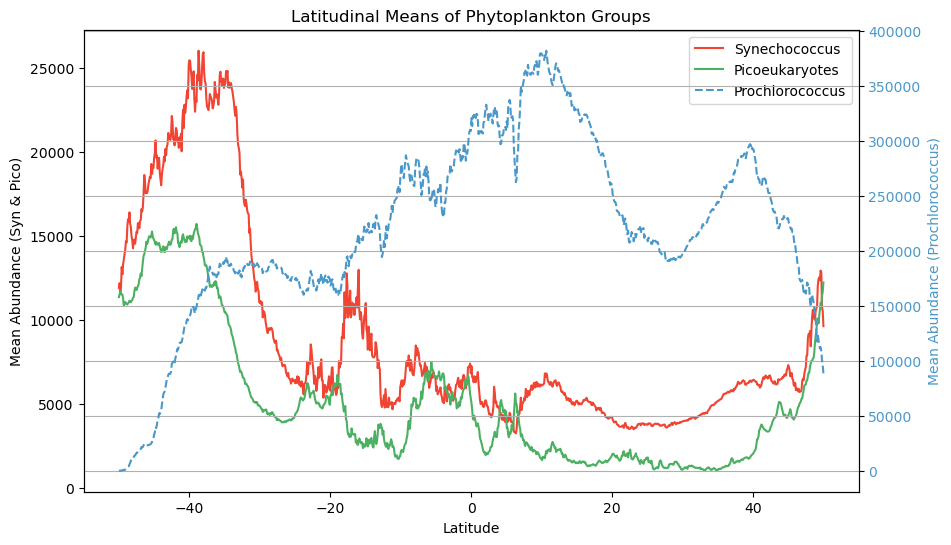
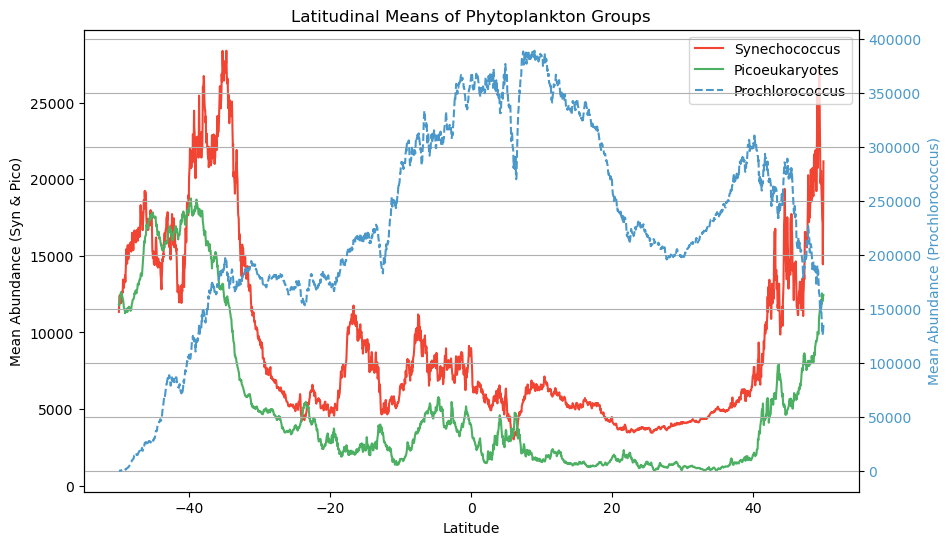
minor update

diff --git a/docs/tutorials/python/Tutorial_3_moana.html b/docs/tutorials/python/Tutorial_3_moana.html
@@ -429,7 +429,8 @@ function googleTranslateElementInit() {
 </section>
 <section id="lock-and-load-the-data" class="level2">
 <h2 class="anchored" data-anchor-id="lock-and-load-the-data">Lock and load the data</h2>
-<div id="d05417c1-06e7-47af-ae9a-28a2401e5a52" class="cell" data-execution_count="2">
+<p>We’re going to do something slightly different here, and pull from ERDDAP instead of NASA Earth Access.</p>
+<div id="d05417c1-06e7-47af-ae9a-28a2401e5a52" class="cell" data-execution_count="12">
 <div class="sourceCode cell-code" id="cb1"><pre class="sourceCode python code-with-copy"><code class="sourceCode python"><span id="cb1-1"><a href="#cb1-1" aria-hidden="true" tabindex="-1"></a><span class="co"># ---- Load Libraries ----</span></span>
 <span id="cb1-2"><a href="#cb1-2" aria-hidden="true" tabindex="-1"></a><span class="im">import</span> numpy <span class="im">as</span> np</span>
 <span id="cb1-3"><a href="#cb1-3" aria-hidden="true" tabindex="-1"></a><span class="im">import</span> matplotlib.pyplot <span class="im">as</span> plt</span>
@@ -439,21 +440,34 @@ function googleTranslateElementInit() {
 <span id="cb1-7"><a href="#cb1-7" aria-hidden="true" tabindex="-1"></a><span class="im">import</span> cartopy.feature <span class="im">as</span> cfeature</span>
 <span id="cb1-8"><a href="#cb1-8" aria-hidden="true" tabindex="-1"></a></span>
 <span id="cb1-9"><a href="#cb1-9" aria-hidden="true" tabindex="-1"></a><span class="co"># ---- Load Data ----</span></span>
-<span id="cb1-10"><a href="#cb1-10" aria-hidden="true" tabindex="-1"></a>filename <span class="op">=</span> <span class="st">'PACE_OCI.20240901_20240930.L3m.MO.MOANA.V3_0.0p1deg.nc'</span></span>
-<span id="cb1-11"><a href="#cb1-11" aria-hidden="true" tabindex="-1"></a>dataset <span class="op">=</span> xr.open_dataset(filename)</span>
-<span id="cb1-12"><a href="#cb1-12" aria-hidden="true" tabindex="-1"></a></span>
-<span id="cb1-13"><a href="#cb1-13" aria-hidden="true" tabindex="-1"></a><span class="co"># Assign core variables</span></span>
-<span id="cb1-14"><a href="#cb1-14" aria-hidden="true" tabindex="-1"></a>latitude <span class="op">=</span> dataset[<span class="st">"lat"</span>]</span>
-<span id="cb1-15"><a href="#cb1-15" aria-hidden="true" tabindex="-1"></a>longitude <span class="op">=</span> dataset[<span class="st">"lon"</span>]</span>
-<span id="cb1-16"><a href="#cb1-16" aria-hidden="true" tabindex="-1"></a>syn_da <span class="op">=</span> dataset[<span class="st">"syncoccus_moana"</span>]</span>
-<span id="cb1-17"><a href="#cb1-17" aria-hidden="true" tabindex="-1"></a>pico_da <span class="op">=</span> dataset[<span class="st">"picoeuk_moana"</span>]</span>
-<span id="cb1-18"><a href="#cb1-18" aria-hidden="true" tabindex="-1"></a>pro_da <span class="op">=</span> dataset[<span class="st">"prococcus_moana"</span>]</span></code><button title="Copy to Clipboard" class="code-copy-button"><i class="bi"></i></button></pre></div>
+<span id="cb1-10"><a href="#cb1-10" aria-hidden="true" tabindex="-1"></a>url <span class="op">=</span> <span class="st">"https://cwcgom.aoml.noaa.gov/erddap/griddap/noaa_aoml_a113_ab04_933f"</span></span>
+<span id="cb1-11"><a href="#cb1-11" aria-hidden="true" tabindex="-1"></a>dataset <span class="op">=</span> xr.open_dataset(url)</span>
+<span id="cb1-12"><a href="#cb1-12" aria-hidden="true" tabindex="-1"></a>dataset <span class="op">=</span> dataset.sel(time<span class="op">=</span><span class="st">"2024-09-25T00:00:00.000000000"</span>)</span>
+<span id="cb1-13"><a href="#cb1-13" aria-hidden="true" tabindex="-1"></a></span>
+<span id="cb1-14"><a href="#cb1-14" aria-hidden="true" tabindex="-1"></a><span class="co"># Assign core variables</span></span>
+<span id="cb1-15"><a href="#cb1-15" aria-hidden="true" tabindex="-1"></a>latitude <span class="op">=</span> dataset[<span class="st">"latitude"</span>]</span>
+<span id="cb1-16"><a href="#cb1-16" aria-hidden="true" tabindex="-1"></a>longitude <span class="op">=</span> dataset[<span class="st">"longitude"</span>]</span>
+<span id="cb1-17"><a href="#cb1-17" aria-hidden="true" tabindex="-1"></a>syn_da <span class="op">=</span> dataset[<span class="st">"syncoccus_moana"</span>]</span>
+<span id="cb1-18"><a href="#cb1-18" aria-hidden="true" tabindex="-1"></a>pico_da <span class="op">=</span> dataset[<span class="st">"picoeuk_moana"</span>]</span>
+<span id="cb1-19"><a href="#cb1-19" aria-hidden="true" tabindex="-1"></a>pro_da <span class="op">=</span> dataset[<span class="st">"prococcus_moana"</span>]</span>
+<span id="cb1-20"><a href="#cb1-20" aria-hidden="true" tabindex="-1"></a></span>
+<span id="cb1-21"><a href="#cb1-21" aria-hidden="true" tabindex="-1"></a></span>
+<span id="cb1-22"><a href="#cb1-22" aria-hidden="true" tabindex="-1"></a><span class="co"># ---- Load Data ----</span></span>
+<span id="cb1-23"><a href="#cb1-23" aria-hidden="true" tabindex="-1"></a><span class="co">#filename = 'PACE_OCI.20240901_20240930.L3m.MO.MOANA.V3_0.0p1deg.nc'</span></span>
+<span id="cb1-24"><a href="#cb1-24" aria-hidden="true" tabindex="-1"></a><span class="co">#dataset = xr.open_dataset(filename)</span></span>
+<span id="cb1-25"><a href="#cb1-25" aria-hidden="true" tabindex="-1"></a></span>
+<span id="cb1-26"><a href="#cb1-26" aria-hidden="true" tabindex="-1"></a><span class="co"># Assign core variables</span></span>
+<span id="cb1-27"><a href="#cb1-27" aria-hidden="true" tabindex="-1"></a><span class="co">#latitude = dataset["lat"]</span></span>
+<span id="cb1-28"><a href="#cb1-28" aria-hidden="true" tabindex="-1"></a><span class="co">#longitude = dataset["lon"]</span></span>
+<span id="cb1-29"><a href="#cb1-29" aria-hidden="true" tabindex="-1"></a><span class="co">#syn_da = dataset["syncoccus_moana"]</span></span>
+<span id="cb1-30"><a href="#cb1-30" aria-hidden="true" tabindex="-1"></a><span class="co">#pico_da = dataset["picoeuk_moana"]</span></span>
+<span id="cb1-31"><a href="#cb1-31" aria-hidden="true" tabindex="-1"></a><span class="co">#pro_da = dataset["prococcus_moana"]</span></span></code><button title="Copy to Clipboard" class="code-copy-button"><i class="bi"></i></button></pre></div>
 </div>
 </section>
 <section id="its-map-time-again" class="level2">
 <h2 class="anchored" data-anchor-id="its-map-time-again">It’s map time again</h2>
 <p>We’ve got three different phytoplankton classes in this MOANA data set. Let’s create some pretty maps and get a sense of their relative distributions.</p>
-<div id="0c2522f0-e3e4-4b29-bae9-80fba7ab04c2" class="cell" data-execution_count="3">
+<div id="0c2522f0-e3e4-4b29-bae9-80fba7ab04c2" class="cell" data-execution_count="15">
 <div class="sourceCode cell-code" id="cb2"><pre class="sourceCode python code-with-copy"><code class="sourceCode python"><span id="cb2-1"><a href="#cb2-1" aria-hidden="true" tabindex="-1"></a><span class="co"># Define colormaps</span></span>
 <span id="cb2-2"><a href="#cb2-2" aria-hidden="true" tabindex="-1"></a>custom_cmaps <span class="op">=</span> {</span>
 <span id="cb2-3"><a href="#cb2-3" aria-hidden="true" tabindex="-1"></a>    <span class="st">"Prochlorococcus"</span>: plt.cm.Blues,</span>
@@ -489,7 +503,7 @@ function googleTranslateElementInit() {
 <span id="cb2-33"><a href="#cb2-33" aria-hidden="true" tabindex="-1"></a>    cmap <span class="op">=</span> custom_cmaps[title]</span>
 <span id="cb2-34"><a href="#cb2-34" aria-hidden="true" tabindex="-1"></a>    img <span class="op">=</span> data.plot(</span>
 <span id="cb2-35"><a href="#cb2-35" aria-hidden="true" tabindex="-1"></a>        ax<span class="op">=</span>ax,</span>
-<span id="cb2-36"><a href="#cb2-36" aria-hidden="true" tabindex="-1"></a>        x<span class="op">=</span><span class="st">"lon"</span>, y<span class="op">=</span><span class="st">"lat"</span>,</span>
+<span id="cb2-36"><a href="#cb2-36" aria-hidden="true" tabindex="-1"></a>        x<span class="op">=</span><span class="st">"longitude"</span>, y<span class="op">=</span><span class="st">"latitude"</span>,</span>
 <span id="cb2-37"><a href="#cb2-37" aria-hidden="true" tabindex="-1"></a>        cmap<span class="op">=</span>cmap,</span>
 <span id="cb2-38"><a href="#cb2-38" aria-hidden="true" tabindex="-1"></a>        robust<span class="op">=</span><span class="va">True</span>,</span>
 <span id="cb2-39"><a href="#cb2-39" aria-hidden="true" tabindex="-1"></a>        add_colorbar<span class="op">=</span><span class="va">False</span></span>
@@ -514,10 +528,10 @@ function googleTranslateElementInit() {
 <section id="lets-get-a-bit-more-quantitative" class="level2">
 <h2 class="anchored" data-anchor-id="lets-get-a-bit-more-quantitative">Let’s get a bit more quantitative</h2>
 <p>Let’s get a little better sense of how these phytoplakton classes are geographically distributed. What we’re going to do next is plot how all three of these phytoplankton classes change in relation to latitude. To do this, we’ll be taking “slices” of data and averaging them. Conceptually, think of a horizontal line across 50 degrees North - we’ll extract all that data, take an average, and then move on to the pixel below (e.g.&nbsp;49.98 degrees North) and do the same until we hit 50 degrees South. Doing this for each phytoplankton class, we can now distill this information into something that can be put onto a line plot.</p>
-<div id="71ceff87-a045-4626-bce6-a488b9d17877" class="cell" data-execution_count="4">
-<div class="sourceCode cell-code" id="cb3"><pre class="sourceCode python code-with-copy"><code class="sourceCode python"><span id="cb3-1"><a href="#cb3-1" aria-hidden="true" tabindex="-1"></a>syn <span class="op">=</span> dataset[<span class="st">"syncoccus_moana"</span>].sel(lat <span class="op">=</span> <span class="bu">slice</span>(<span class="dv">50</span>, <span class="op">-</span><span class="dv">50</span>)).mean(dim<span class="op">=</span>[<span class="st">"lon"</span>])</span>
-<span id="cb3-2"><a href="#cb3-2" aria-hidden="true" tabindex="-1"></a>pro <span class="op">=</span> dataset[<span class="st">"prococcus_moana"</span>].sel(lat <span class="op">=</span> <span class="bu">slice</span>(<span class="dv">50</span>, <span class="op">-</span><span class="dv">50</span>)).mean(dim<span class="op">=</span>[<span class="st">"lon"</span>])</span>
-<span id="cb3-3"><a href="#cb3-3" aria-hidden="true" tabindex="-1"></a>pico <span class="op">=</span> dataset[<span class="st">"picoeuk_moana"</span>].sel(lat <span class="op">=</span> <span class="bu">slice</span>(<span class="dv">50</span>, <span class="op">-</span><span class="dv">50</span>)).mean(dim<span class="op">=</span>[<span class="st">"lon"</span>])</span>
+<div id="71ceff87-a045-4626-bce6-a488b9d17877" class="cell" data-execution_count="18">
+<div class="sourceCode cell-code" id="cb3"><pre class="sourceCode python code-with-copy"><code class="sourceCode python"><span id="cb3-1"><a href="#cb3-1" aria-hidden="true" tabindex="-1"></a>syn <span class="op">=</span> dataset[<span class="st">"syncoccus_moana"</span>].sel(latitude <span class="op">=</span> <span class="bu">slice</span>(<span class="dv">50</span>, <span class="op">-</span><span class="dv">50</span>)).mean(dim<span class="op">=</span>[<span class="st">"longitude"</span>])</span>
+<span id="cb3-2"><a href="#cb3-2" aria-hidden="true" tabindex="-1"></a>pro <span class="op">=</span> dataset[<span class="st">"prococcus_moana"</span>].sel(latitude <span class="op">=</span> <span class="bu">slice</span>(<span class="dv">50</span>, <span class="op">-</span><span class="dv">50</span>)).mean(dim<span class="op">=</span>[<span class="st">"longitude"</span>])</span>
+<span id="cb3-3"><a href="#cb3-3" aria-hidden="true" tabindex="-1"></a>pico <span class="op">=</span> dataset[<span class="st">"picoeuk_moana"</span>].sel(latitude <span class="op">=</span> <span class="bu">slice</span>(<span class="dv">50</span>, <span class="op">-</span><span class="dv">50</span>)).mean(dim<span class="op">=</span>[<span class="st">"longitude"</span>])</span>
 <span id="cb3-4"><a href="#cb3-4" aria-hidden="true" tabindex="-1"></a></span>
 <span id="cb3-5"><a href="#cb3-5" aria-hidden="true" tabindex="-1"></a>custom_colors <span class="op">=</span> {</span>
 <span id="cb3-6"><a href="#cb3-6" aria-hidden="true" tabindex="-1"></a>    <span class="st">"Prochlorococcus"</span>: plt.cm.Blues(<span class="fl">0.6</span>),</span>
@@ -528,15 +542,15 @@ function googleTranslateElementInit() {
 <span id="cb3-11"><a href="#cb3-11" aria-hidden="true" tabindex="-1"></a>fig, ax1 <span class="op">=</span> plt.subplots(figsize<span class="op">=</span>(<span class="dv">10</span>, <span class="dv">6</span>))</span>
 <span id="cb3-12"><a href="#cb3-12" aria-hidden="true" tabindex="-1"></a></span>
 <span id="cb3-13"><a href="#cb3-13" aria-hidden="true" tabindex="-1"></a><span class="co"># Primary axis: Syn and Pico</span></span>
-<span id="cb3-14"><a href="#cb3-14" aria-hidden="true" tabindex="-1"></a>ax1.plot(syn[<span class="st">"lat"</span>], syn, label<span class="op">=</span><span class="st">"Synechococcus"</span>, color<span class="op">=</span>custom_colors[<span class="st">"Synechococcus"</span>])</span>
-<span id="cb3-15"><a href="#cb3-15" aria-hidden="true" tabindex="-1"></a>ax1.plot(pico[<span class="st">"lat"</span>], pico, label<span class="op">=</span><span class="st">"Picoeukaryotes"</span>, color<span class="op">=</span>custom_colors[<span class="st">"Picoeukaryotes"</span>])</span>
+<span id="cb3-14"><a href="#cb3-14" aria-hidden="true" tabindex="-1"></a>ax1.plot(syn[<span class="st">"latitude"</span>], syn, label<span class="op">=</span><span class="st">"Synechococcus"</span>, color<span class="op">=</span>custom_colors[<span class="st">"Synechococcus"</span>])</span>
+<span id="cb3-15"><a href="#cb3-15" aria-hidden="true" tabindex="-1"></a>ax1.plot(pico[<span class="st">"latitude"</span>], pico, label<span class="op">=</span><span class="st">"Picoeukaryotes"</span>, color<span class="op">=</span>custom_colors[<span class="st">"Picoeukaryotes"</span>])</span>
 <span id="cb3-16"><a href="#cb3-16" aria-hidden="true" tabindex="-1"></a>ax1.set_xlabel(<span class="st">"Latitude"</span>)</span>
 <span id="cb3-17"><a href="#cb3-17" aria-hidden="true" tabindex="-1"></a>ax1.set_ylabel(<span class="st">"Mean Abundance (Syn &amp; Pico)"</span>, color<span class="op">=</span><span class="st">"black"</span>)</span>
 <span id="cb3-18"><a href="#cb3-18" aria-hidden="true" tabindex="-1"></a>ax1.tick_params(axis<span class="op">=</span><span class="st">'y'</span>, labelcolor<span class="op">=</span><span class="st">"black"</span>)</span>
 <span id="cb3-19"><a href="#cb3-19" aria-hidden="true" tabindex="-1"></a></span>
 <span id="cb3-20"><a href="#cb3-20" aria-hidden="true" tabindex="-1"></a><span class="co"># Secondary axis: Prochlorococcus</span></span>
 <span id="cb3-21"><a href="#cb3-21" aria-hidden="true" tabindex="-1"></a>ax2 <span class="op">=</span> ax1.twinx()</span>
-<span id="cb3-22"><a href="#cb3-22" aria-hidden="true" tabindex="-1"></a>ax2.plot(pro[<span class="st">"lat"</span>], pro, label<span class="op">=</span><span class="st">"Prochlorococcus"</span>, color<span class="op">=</span>custom_colors[<span class="st">"Prochlorococcus"</span>], linestyle<span class="op">=</span><span class="st">"--"</span>)</span>
+<span id="cb3-22"><a href="#cb3-22" aria-hidden="true" tabindex="-1"></a>ax2.plot(pro[<span class="st">"latitude"</span>], pro, label<span class="op">=</span><span class="st">"Prochlorococcus"</span>, color<span class="op">=</span>custom_colors[<span class="st">"Prochlorococcus"</span>], linestyle<span class="op">=</span><span class="st">"--"</span>)</span>
 <span id="cb3-23"><a href="#cb3-23" aria-hidden="true" tabindex="-1"></a>ax2.set_ylabel(<span class="st">"Mean Abundance (Prochlorococcus)"</span>, color<span class="op">=</span>custom_colors[<span class="st">"Prochlorococcus"</span>])</span>
 <span id="cb3-24"><a href="#cb3-24" aria-hidden="true" tabindex="-1"></a>ax2.tick_params(axis<span class="op">=</span><span class="st">'y'</span>, labelcolor<span class="op">=</span>custom_colors[<span class="st">"Prochlorococcus"</span>])</span>
 <span id="cb3-25"><a href="#cb3-25" aria-hidden="true" tabindex="-1"></a></span>
@@ -562,45 +576,46 @@ function googleTranslateElementInit() {
 <h2 class="anchored" data-anchor-id="the-times-they-are-a-changin">The times, they are a changin’</h2>
 <p>For this exercise, we’ll download one year’s worth of PACE data to see how things are evolving over time. Don’t worry, we’ll do monthly time steps for the time being (i.e., only 12 files), but you can increase the frequency to 8-day averages (46 files), or even daily (all 365!), if you want. Using this time series, we’re going to use the “slice” function again, but this time we’ll extract a 10 degree x 10 degree box in the south Atlantic ocean. It can be smaller, or located elsewhere if you like, but either way, we’re going to average the data within that box for each individual time step.</p>
 <p>Next, we’ll plot how all three of these phytoplankton classes change over the course of 1 year, allowing you to see the cycles of growth and decay relative to one another. It is useful to add this context because not all chlorophyll-a is equivalent, e.g., a bloom of <em>Prochlorococcus</em> may represent a different amount of trophic energy potential relative to blooms of other phytoplankton classes, or it may havce come about from a different oceanographic process.</p>
-<div id="8cf8e1c2-4aaf-4028-86d6-d0abcc84f2c4" class="cell" data-execution_count="10">
-<div class="sourceCode cell-code" id="cb4"><pre class="sourceCode python code-with-copy"><code class="sourceCode python"><span id="cb4-1"><a href="#cb4-1" aria-hidden="true" tabindex="-1"></a>file_pattern <span class="op">=</span> <span class="st">"PACE_OCI.202*.L3m.MO.MOANA.V3_0.0p1deg.nc"</span></span>
-<span id="cb4-2"><a href="#cb4-2" aria-hidden="true" tabindex="-1"></a>ds <span class="op">=</span> xr.open_mfdataset(file_pattern, combine<span class="op">=</span><span class="st">'nested'</span>,concat_dim<span class="op">=</span><span class="st">"time"</span>)</span>
-<span id="cb4-3"><a href="#cb4-3" aria-hidden="true" tabindex="-1"></a></span>
-<span id="cb4-4"><a href="#cb4-4" aria-hidden="true" tabindex="-1"></a>lat_box <span class="op">=</span> <span class="bu">slice</span>(<span class="op">-</span><span class="dv">30</span>, <span class="op">-</span><span class="dv">40</span>)     <span class="co"># reversed order: north to south</span></span>
-<span id="cb4-5"><a href="#cb4-5" aria-hidden="true" tabindex="-1"></a>lon_box <span class="op">=</span> <span class="bu">slice</span>(<span class="op">-</span><span class="dv">40</span>, <span class="op">-</span><span class="dv">30</span>)     <span class="co"># within available lon range</span></span>
-<span id="cb4-6"><a href="#cb4-6" aria-hidden="true" tabindex="-1"></a></span>
-<span id="cb4-7"><a href="#cb4-7" aria-hidden="true" tabindex="-1"></a><span class="co"># Subset and average over space (lat/lon)</span></span>
-<span id="cb4-8"><a href="#cb4-8" aria-hidden="true" tabindex="-1"></a>syn_timeseries <span class="op">=</span> ds[<span class="st">"syncoccus_moana"</span>].sel(lat<span class="op">=</span>lat_box, lon<span class="op">=</span>lon_box).mean(dim<span class="op">=</span>[<span class="st">"lat"</span>, <span class="st">"lon"</span>], skipna<span class="op">=</span><span class="va">True</span>)</span>
-<span id="cb4-9"><a href="#cb4-9" aria-hidden="true" tabindex="-1"></a>pro_timeseries <span class="op">=</span> ds[<span class="st">"prococcus_moana"</span>].sel(lat<span class="op">=</span>lat_box, lon<span class="op">=</span>lon_box).mean(dim<span class="op">=</span>[<span class="st">"lat"</span>, <span class="st">"lon"</span>], skipna<span class="op">=</span><span class="va">True</span>)</span>
-<span id="cb4-10"><a href="#cb4-10" aria-hidden="true" tabindex="-1"></a>pico_timeseries <span class="op">=</span> ds[<span class="st">"picoeuk_moana"</span>].sel(lat<span class="op">=</span>lat_box, lon<span class="op">=</span>lon_box).mean(dim<span class="op">=</span>[<span class="st">"lat"</span>, <span class="st">"lon"</span>], skipna<span class="op">=</span><span class="va">True</span>)</span>
-<span id="cb4-11"><a href="#cb4-11" aria-hidden="true" tabindex="-1"></a></span>
-<span id="cb4-12"><a href="#cb4-12" aria-hidden="true" tabindex="-1"></a><span class="co"># Create the figure and axis</span></span>
-<span id="cb4-13"><a href="#cb4-13" aria-hidden="true" tabindex="-1"></a>fig, ax1 <span class="op">=</span> plt.subplots(figsize<span class="op">=</span>(<span class="dv">12</span>, <span class="dv">6</span>))</span>
-<span id="cb4-14"><a href="#cb4-14" aria-hidden="true" tabindex="-1"></a></span>
-<span id="cb4-15"><a href="#cb4-15" aria-hidden="true" tabindex="-1"></a><span class="co"># Plot syn and pico on the left y-axis</span></span>
-<span id="cb4-16"><a href="#cb4-16" aria-hidden="true" tabindex="-1"></a>ax1.plot(syn_timeseries[<span class="st">"time"</span>], syn_timeseries, label<span class="op">=</span><span class="st">"Synechococcus"</span>, color<span class="op">=</span>custom_colors[<span class="st">"Synechococcus"</span>])</span>
-<span id="cb4-17"><a href="#cb4-17" aria-hidden="true" tabindex="-1"></a>ax1.plot(pico_timeseries[<span class="st">"time"</span>], pico_timeseries, label<span class="op">=</span><span class="st">"Picoeukaryotes"</span>, color<span class="op">=</span>custom_colors[<span class="st">"Picoeukaryotes"</span>])</span>
-<span id="cb4-18"><a href="#cb4-18" aria-hidden="true" tabindex="-1"></a>ax1.set_xlabel(<span class="st">"Time"</span>)</span>
-<span id="cb4-19"><a href="#cb4-19" aria-hidden="true" tabindex="-1"></a>ax1.set_ylabel(<span class="st">"Mean Abundance (Syn &amp; Pico)"</span>, color<span class="op">=</span><span class="st">"black"</span>)</span>
-<span id="cb4-20"><a href="#cb4-20" aria-hidden="true" tabindex="-1"></a>ax1.tick_params(axis<span class="op">=</span><span class="st">'y'</span>, labelcolor<span class="op">=</span><span class="st">"black"</span>)</span>
-<span id="cb4-21"><a href="#cb4-21" aria-hidden="true" tabindex="-1"></a></span>
-<span id="cb4-22"><a href="#cb4-22" aria-hidden="true" tabindex="-1"></a><span class="co"># Create a secondary y-axis for prococcus_moana</span></span>
-<span id="cb4-23"><a href="#cb4-23" aria-hidden="true" tabindex="-1"></a>ax2 <span class="op">=</span> ax1.twinx()</span>
-<span id="cb4-24"><a href="#cb4-24" aria-hidden="true" tabindex="-1"></a>ax2.plot(pro_timeseries[<span class="st">"time"</span>], pro_timeseries, label<span class="op">=</span><span class="st">"Prochlorococcus"</span>, color<span class="op">=</span>custom_colors[<span class="st">"Prochlorococcus"</span>], linestyle<span class="op">=</span><span class="st">"--"</span>)</span>
-<span id="cb4-25"><a href="#cb4-25" aria-hidden="true" tabindex="-1"></a>ax2.set_ylabel(<span class="st">"Mean Abundance (Prochlorococcus)"</span>, color<span class="op">=</span>custom_colors[<span class="st">"Prochlorococcus"</span>])</span>
-<span id="cb4-26"><a href="#cb4-26" aria-hidden="true" tabindex="-1"></a>ax2.tick_params(axis<span class="op">=</span><span class="st">'y'</span>, labelcolor<span class="op">=</span>custom_colors[<span class="st">"Prochlorococcus"</span>])</span>
-<span id="cb4-27"><a href="#cb4-27" aria-hidden="true" tabindex="-1"></a></span>
-<span id="cb4-28"><a href="#cb4-28" aria-hidden="true" tabindex="-1"></a><span class="co"># Combine all legends</span></span>
-<span id="cb4-29"><a href="#cb4-29" aria-hidden="true" tabindex="-1"></a>lines_1, labels_1 <span class="op">=</span> ax1.get_legend_handles_labels()</span>
-<span id="cb4-30"><a href="#cb4-30" aria-hidden="true" tabindex="-1"></a>lines_2, labels_2 <span class="op">=</span> ax2.get_legend_handles_labels()</span>
-<span id="cb4-31"><a href="#cb4-31" aria-hidden="true" tabindex="-1"></a>ax1.legend(lines_1 <span class="op">+</span> lines_2, labels_1 <span class="op">+</span> labels_2, loc<span class="op">=</span><span class="st">"upper left"</span>)</span>
-<span id="cb4-32"><a href="#cb4-32" aria-hidden="true" tabindex="-1"></a></span>
-<span id="cb4-33"><a href="#cb4-33" aria-hidden="true" tabindex="-1"></a><span class="co"># Add title and grid</span></span>
-<span id="cb4-34"><a href="#cb4-34" aria-hidden="true" tabindex="-1"></a>plt.title(<span class="st">"Monthly Phytoplankton Abundance in Selected Box"</span>)</span>
-<span id="cb4-35"><a href="#cb4-35" aria-hidden="true" tabindex="-1"></a>plt.grid(<span class="va">True</span>)</span>
-<span id="cb4-36"><a href="#cb4-36" aria-hidden="true" tabindex="-1"></a>plt.xticks(rotation<span class="op">=</span><span class="dv">45</span>)</span>
-<span id="cb4-37"><a href="#cb4-37" aria-hidden="true" tabindex="-1"></a>plt.tight_layout()</span>
-<span id="cb4-38"><a href="#cb4-38" aria-hidden="true" tabindex="-1"></a>plt.show()</span></code><button title="Copy to Clipboard" class="code-copy-button"><i class="bi"></i></button></pre></div>
+<div id="8cf8e1c2-4aaf-4028-86d6-d0abcc84f2c4" class="cell" data-execution_count="19">
+<div class="sourceCode cell-code" id="cb4"><pre class="sourceCode python code-with-copy"><code class="sourceCode python"><span id="cb4-1"><a href="#cb4-1" aria-hidden="true" tabindex="-1"></a><span class="co"># ---- Load Data ----</span></span>
+<span id="cb4-2"><a href="#cb4-2" aria-hidden="true" tabindex="-1"></a>url <span class="op">=</span> <span class="st">"https://cwcgom.aoml.noaa.gov/erddap/griddap/noaa_aoml_a113_ab04_933f"</span></span>
+<span id="cb4-3"><a href="#cb4-3" aria-hidden="true" tabindex="-1"></a>dataset <span class="op">=</span> xr.open_dataset(url)</span>
+<span id="cb4-4"><a href="#cb4-4" aria-hidden="true" tabindex="-1"></a>da<span class="op">=</span>dataset.sel(latitude<span class="op">=</span><span class="bu">slice</span>(<span class="op">-</span><span class="dv">39</span>,<span class="op">-</span><span class="dv">42</span>), longitude<span class="op">=</span><span class="bu">slice</span>(<span class="op">-</span><span class="dv">54</span>,<span class="op">-</span><span class="dv">51</span>))</span>
+<span id="cb4-5"><a href="#cb4-5" aria-hidden="true" tabindex="-1"></a></span>
+<span id="cb4-6"><a href="#cb4-6" aria-hidden="true" tabindex="-1"></a><span class="co"># Assign core variables</span></span>
+<span id="cb4-7"><a href="#cb4-7" aria-hidden="true" tabindex="-1"></a>latitude_ts <span class="op">=</span> da[<span class="st">"latitude"</span>]</span>
+<span id="cb4-8"><a href="#cb4-8" aria-hidden="true" tabindex="-1"></a>longitude_ts <span class="op">=</span> da[<span class="st">"longitude"</span>]</span>
+<span id="cb4-9"><a href="#cb4-9" aria-hidden="true" tabindex="-1"></a>syn_ts <span class="op">=</span> da[<span class="st">"syncoccus_moana"</span>].mean(dim<span class="op">=</span>[<span class="st">"latitude"</span>, <span class="st">"longitude"</span>])</span>
+<span id="cb4-10"><a href="#cb4-10" aria-hidden="true" tabindex="-1"></a>pico_ts <span class="op">=</span> da[<span class="st">"picoeuk_moana"</span>].mean(dim<span class="op">=</span>[<span class="st">"latitude"</span>, <span class="st">"longitude"</span>])</span>
+<span id="cb4-11"><a href="#cb4-11" aria-hidden="true" tabindex="-1"></a>pro_ts <span class="op">=</span> da[<span class="st">"prococcus_moana"</span>].mean(dim<span class="op">=</span>[<span class="st">"latitude"</span>, <span class="st">"longitude"</span>])</span>
+<span id="cb4-12"><a href="#cb4-12" aria-hidden="true" tabindex="-1"></a></span>
+<span id="cb4-13"><a href="#cb4-13" aria-hidden="true" tabindex="-1"></a><span class="co"># Create the figure and axis</span></span>
+<span id="cb4-14"><a href="#cb4-14" aria-hidden="true" tabindex="-1"></a>fig, ax1 <span class="op">=</span> plt.subplots(figsize<span class="op">=</span>(<span class="dv">12</span>, <span class="dv">6</span>))</span>
+<span id="cb4-15"><a href="#cb4-15" aria-hidden="true" tabindex="-1"></a></span>
+<span id="cb4-16"><a href="#cb4-16" aria-hidden="true" tabindex="-1"></a><span class="co"># Plot syn and pico on the left y-axis</span></span>
+<span id="cb4-17"><a href="#cb4-17" aria-hidden="true" tabindex="-1"></a>ax1.plot(syn_ts[<span class="st">"time"</span>], syn_ts, label<span class="op">=</span><span class="st">"Synechococcus"</span>, color<span class="op">=</span>custom_colors[<span class="st">"Synechococcus"</span>])</span>
+<span id="cb4-18"><a href="#cb4-18" aria-hidden="true" tabindex="-1"></a>ax1.plot(pico_ts[<span class="st">"time"</span>], pico_ts, label<span class="op">=</span><span class="st">"Picoeukaryotes"</span>, color<span class="op">=</span>custom_colors[<span class="st">"Picoeukaryotes"</span>])</span>
+<span id="cb4-19"><a href="#cb4-19" aria-hidden="true" tabindex="-1"></a>ax1.set_xlabel(<span class="st">"Time"</span>)</span>
+<span id="cb4-20"><a href="#cb4-20" aria-hidden="true" tabindex="-1"></a>ax1.set_ylabel(<span class="st">"Mean Abundance (Syn &amp; Pico)"</span>, color<span class="op">=</span><span class="st">"black"</span>)</span>
+<span id="cb4-21"><a href="#cb4-21" aria-hidden="true" tabindex="-1"></a>ax1.tick_params(axis<span class="op">=</span><span class="st">'y'</span>, labelcolor<span class="op">=</span><span class="st">"black"</span>)</span>
+<span id="cb4-22"><a href="#cb4-22" aria-hidden="true" tabindex="-1"></a></span>
+<span id="cb4-23"><a href="#cb4-23" aria-hidden="true" tabindex="-1"></a><span class="co"># Create a secondary y-axis for prococcus_moana</span></span>
+<span id="cb4-24"><a href="#cb4-24" aria-hidden="true" tabindex="-1"></a>ax2 <span class="op">=</span> ax1.twinx()</span>
+<span id="cb4-25"><a href="#cb4-25" aria-hidden="true" tabindex="-1"></a>ax2.plot(pro_ts[<span class="st">"time"</span>], pro_ts, label<span class="op">=</span><span class="st">"Prochlorococcus"</span>, color<span class="op">=</span>custom_colors[<span class="st">"Prochlorococcus"</span>], linestyle<span class="op">=</span><span class="st">"--"</span>)</span>
+<span id="cb4-26"><a href="#cb4-26" aria-hidden="true" tabindex="-1"></a>ax2.set_ylabel(<span class="st">"Mean Abundance (Prochlorococcus)"</span>, color<span class="op">=</span>custom_colors[<span class="st">"Prochlorococcus"</span>])</span>
+<span id="cb4-27"><a href="#cb4-27" aria-hidden="true" tabindex="-1"></a>ax2.tick_params(axis<span class="op">=</span><span class="st">'y'</span>, labelcolor<span class="op">=</span>custom_colors[<span class="st">"Prochlorococcus"</span>])</span>
+<span id="cb4-28"><a href="#cb4-28" aria-hidden="true" tabindex="-1"></a></span>
+<span id="cb4-29"><a href="#cb4-29" aria-hidden="true" tabindex="-1"></a><span class="co"># Combine all legends</span></span>
+<span id="cb4-30"><a href="#cb4-30" aria-hidden="true" tabindex="-1"></a>lines_1, labels_1 <span class="op">=</span> ax1.get_legend_handles_labels()</span>
+<span id="cb4-31"><a href="#cb4-31" aria-hidden="true" tabindex="-1"></a>lines_2, labels_2 <span class="op">=</span> ax2.get_legend_handles_labels()</span>
+<span id="cb4-32"><a href="#cb4-32" aria-hidden="true" tabindex="-1"></a>ax1.legend(lines_1 <span class="op">+</span> lines_2, labels_1 <span class="op">+</span> labels_2, loc<span class="op">=</span><span class="st">"upper left"</span>)</span>
+<span id="cb4-33"><a href="#cb4-33" aria-hidden="true" tabindex="-1"></a></span>
+<span id="cb4-34"><a href="#cb4-34" aria-hidden="true" tabindex="-1"></a><span class="co"># Add title and grid</span></span>
+<span id="cb4-35"><a href="#cb4-35" aria-hidden="true" tabindex="-1"></a>plt.title(<span class="st">"Monthly Phytoplankton Abundance in Selected Box"</span>)</span>
+<span id="cb4-36"><a href="#cb4-36" aria-hidden="true" tabindex="-1"></a>plt.grid(<span class="va">True</span>)</span>
+<span id="cb4-37"><a href="#cb4-37" aria-hidden="true" tabindex="-1"></a>plt.xticks(rotation<span class="op">=</span><span class="dv">45</span>)</span>
+<span id="cb4-38"><a href="#cb4-38" aria-hidden="true" tabindex="-1"></a>plt.tight_layout()</span>
+<span id="cb4-39"><a href="#cb4-39" aria-hidden="true" tabindex="-1"></a>plt.show()</span></code><button title="Copy to Clipboard" class="code-copy-button"><i class="bi"></i></button></pre></div>
 <div class="cell-output cell-output-display">
 <div>
 <figure class="figure">
@@ -615,7 +630,7 @@ function googleTranslateElementInit() {
 <p>A central theme of working with PACE data revolves around wrangling multiple dimensions of data into something you can conceptualize. Viewing three separate maps makes it a bit difficult to see the interactions between the different phytoplankton classes. This is important - we want to know where these boundaries are colliding, because this indicates that something is changing with the underlying oceanography.</p>
 <p>Let’s try something a little different here. Instead of making three separate plots, let’s stack them all and make a false “true color” image by substituting the usual red, green, and blue radiance channels with <em>Synechococcus</em> (red), Picoeukaryotes (green), and <em>Proclorococcus</em> (blue). Can it be done?</p>
 <p>Yes, but with a tiny bit of nuance here. We talked earlier about how higher cell counts does not unequivocally mean that this is a “dominant” class. We can do something called histogram stretching, which is a little trick some folks use to make their true color images pop a little more. Basically, for each phytoplankton class, let’s take all the data between the 2% and 98% percentile range, and normalize those data to the respective median. This ensure all phytoplankton classes are now on a level playing field when we stack them up. Higher or lower values no longer represent absolute cell counts, they now represent higher or lower weights relative to their central tendency. The same trick is often done for making “true color” images to make them pop a little more. Let’s give it a try:</p>
-<div id="a1641e73-c25d-4564-a28e-f1bb8dd7b2a6" class="cell" data-execution_count="15">
+<div id="a1641e73-c25d-4564-a28e-f1bb8dd7b2a6" class="cell" data-execution_count="21">
 <div class="sourceCode cell-code" id="cb5"><pre class="sourceCode python code-with-copy"><code class="sourceCode python"><span id="cb5-1"><a href="#cb5-1" aria-hidden="true" tabindex="-1"></a><span class="im">import</span> cartopy.crs <span class="im">as</span> ccrs</span>
 <span id="cb5-2"><a href="#cb5-2" aria-hidden="true" tabindex="-1"></a><span class="im">import</span> cartopy.feature <span class="im">as</span> cfeature</span>
 <span id="cb5-3"><a href="#cb5-3" aria-hidden="true" tabindex="-1"></a></span>
@@ -643,7 +658,7 @@ function googleTranslateElementInit() {
 <span id="cb5-25"><a href="#cb5-25" aria-hidden="true" tabindex="-1"></a>gl.right_labels <span class="op">=</span> gl.top_labels <span class="op">=</span> <span class="va">False</span></span>
 <span id="cb5-26"><a href="#cb5-26" aria-hidden="true" tabindex="-1"></a></span>
 <span id="cb5-27"><a href="#cb5-27" aria-hidden="true" tabindex="-1"></a><span class="co"># Use imshow with correct extent</span></span>
-<span id="cb5-28"><a href="#cb5-28" aria-hidden="true" tabindex="-1"></a>extent <span class="op">=</span> [pro_da.lon.<span class="bu">min</span>(), pro_da.lon.<span class="bu">max</span>(), pro_da.lat.<span class="bu">min</span>(), pro_da.lat.<span class="bu">max</span>()]</span>
+<span id="cb5-28"><a href="#cb5-28" aria-hidden="true" tabindex="-1"></a>extent <span class="op">=</span> [pro_da.longitude.<span class="bu">min</span>(), pro_da.longitude.<span class="bu">max</span>(), pro_da.latitude.<span class="bu">min</span>(), pro_da.latitude.<span class="bu">max</span>()]</span>
 <span id="cb5-29"><a href="#cb5-29" aria-hidden="true" tabindex="-1"></a>ax.imshow(rgb_image, origin<span class="op">=</span><span class="st">'lower'</span>, extent<span class="op">=</span>extent, transform<span class="op">=</span>ccrs.PlateCarree())</span>
 <span id="cb5-30"><a href="#cb5-30" aria-hidden="true" tabindex="-1"></a></span>
 <span id="cb5-31"><a href="#cb5-31" aria-hidden="true" tabindex="-1"></a>plt.tight_layout()</span>
@@ -661,7 +676,7 @@ function googleTranslateElementInit() {
 <section id="just-a-tiny-bit-more-context-please" class="level2">
 <h2 class="anchored" data-anchor-id="just-a-tiny-bit-more-context-please">Just a tiny bit more context, please</h2>
 <p>We still could use a bit of help contextualizing the above image, so let’s just make a little legend for it. Since we’re in tri-color space, let’s use the very useful, and in my opinion, underutilized ternary plot. These are fun little plots that show the relative contribution of three variables relative to one another. It helps us determine how to interpret the purple, teal, pink, and orange areas you see on the map.</p>
-<div id="96f916d8-63b6-42d7-a6da-970dfd422677" class="cell" data-execution_count="18">
+<div id="96f916d8-63b6-42d7-a6da-970dfd422677" class="cell" data-execution_count="22">
 <div class="sourceCode cell-code" id="cb6"><pre class="sourceCode python code-with-copy"><code class="sourceCode python"><span id="cb6-1"><a href="#cb6-1" aria-hidden="true" tabindex="-1"></a><span class="im">from</span> matplotlib.patches <span class="im">import</span> Polygon</span>
 <span id="cb6-2"><a href="#cb6-2" aria-hidden="true" tabindex="-1"></a></span>
 <span id="cb6-3"><a href="#cb6-3" aria-hidden="true" tabindex="-1"></a><span class="co"># Define triangle vertices (RGB space: R=Syn, G=Pico, B=Pro)</span></span>

diff --git a/docs/tutorials/python/Tutorial_3_moana-erddap.html b/docs/tutorials/python/Tutorial_3_moana-erddap.html
@@ -7,7 +7,7 @@
 <meta name="viewport" content="width=device-width, initial-scale=1.0, user-scalable=yes">
 
 
-<title>Tutorial 3: Make way for MOANA (Multi Ordination ANAlysis, that is) – 2025 EDMW Workshop - PACE</title>
+<title>Tutorial 3: Make way for MOANA (Multi Ordination ANAlysis, that is – 2025 EDMW Workshop - PACE</title>
 <style>
 code{white-space: pre-wrap;}
 span.smallcaps{font-variant: small-caps;}
@@ -397,7 +397,7 @@ function googleTranslateElementInit() {
 
 <header id="title-block-header" class="quarto-title-block default"><nav class="quarto-page-breadcrumbs quarto-title-breadcrumbs d-none d-lg-block" aria-label="breadcrumb"><ol class="breadcrumb"><li class="breadcrumb-item">Tutorials</li><li class="breadcrumb-item"><a href="../../tutorials/python/0-earthdata-catalog.html">Tutorials</a></li><li class="breadcrumb-item"><a href="../../tutorials/python/Tutorial_3_moana-erddap.html">MOANA</a></li></ol></nav>
 <div class="quarto-title">
-<h1 class="title">Tutorial 3: Make way for MOANA (Multi Ordination ANAlysis, that is)</h1>
+<h1 class="title">Tutorial 3: Make way for MOANA (Multi Ordination ANAlysis, that is</h1>
 </div>
 
 
@@ -414,6 +414,9 @@ function googleTranslateElementInit() {
 </header>
 
 
+<p><strong>YOU WILL NEED 3.7Gb for this tutorial</strong></p>
+<p>Go to File &gt; Hub Control Panel &gt; Stop my server</p>
+<p>Then restart after chosing 3.7</p>
 <section id="interacting-with-multiple-phytoplankton-groups-simultaneously" class="level2">
 <h2 class="anchored" data-anchor-id="interacting-with-multiple-phytoplankton-groups-simultaneously">Interacting with multiple phytoplankton groups simultaneously</h2>
 <p>MOANA is the first phytoplankton community composition algorithm to be released by PACE. This product returns near-surface concentrations (cells mL-1) of three different picophytoplankton (i.e., phytoplankton &lt;2 μm in size): Prochlorococcus, Synechococcus, and autotrophic picoeukaryotes (Figure 15). The algorithm uses empirical relationships between measured cell concentrations, in situ hyperspectral remote sensing reflectances, and sea surface temperatures. Details of this algorithm can be found in <a href="https://doi.org/10.1364/OE.398127">Lange et al.&nbsp;(2020)</a>.</p>
